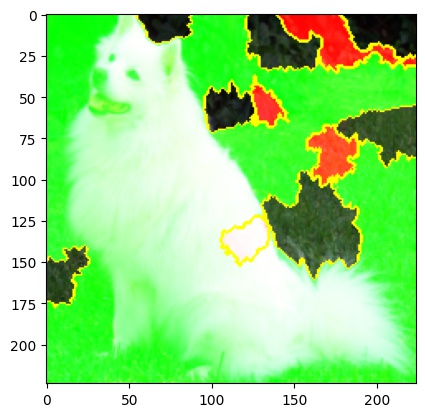
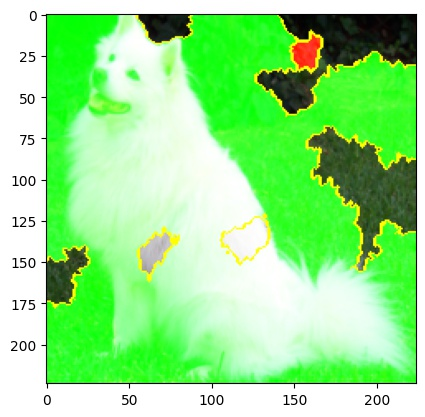
add fireboat and samoyed

diff --git a/runner.py b/runner.py
@@ -64,16 +64,17 @@ def evaluate_lime(lime_explanation, input_image, model, categories, image_name, 
 
 
 if __name__ == '__main__':
-    path = './outputs/results.txt'
-    sys.stdout = open(path, 'w')
 
     # load image
-    image_path = "./data/fireboat.jpeg"
+    image_path = "./data/dog.jpg"
     image = PIL.Image.open(image_path)
     input_image = preprocess(image)
     input_batch = input_image.unsqueeze(0)
-    image_name = "fireboat"
-    label_name = "fireboat"
+    image_name = "samoyed"
+    label_name = "Samoyed"
+
+    path = './outputs/results_' + image_name + '.txt'
+    sys.stdout = open(path, 'w')
 
     # print original predictions
     topk_pred_orig = get_topk_pred(input_image, MODEL, CATEGORIES)
